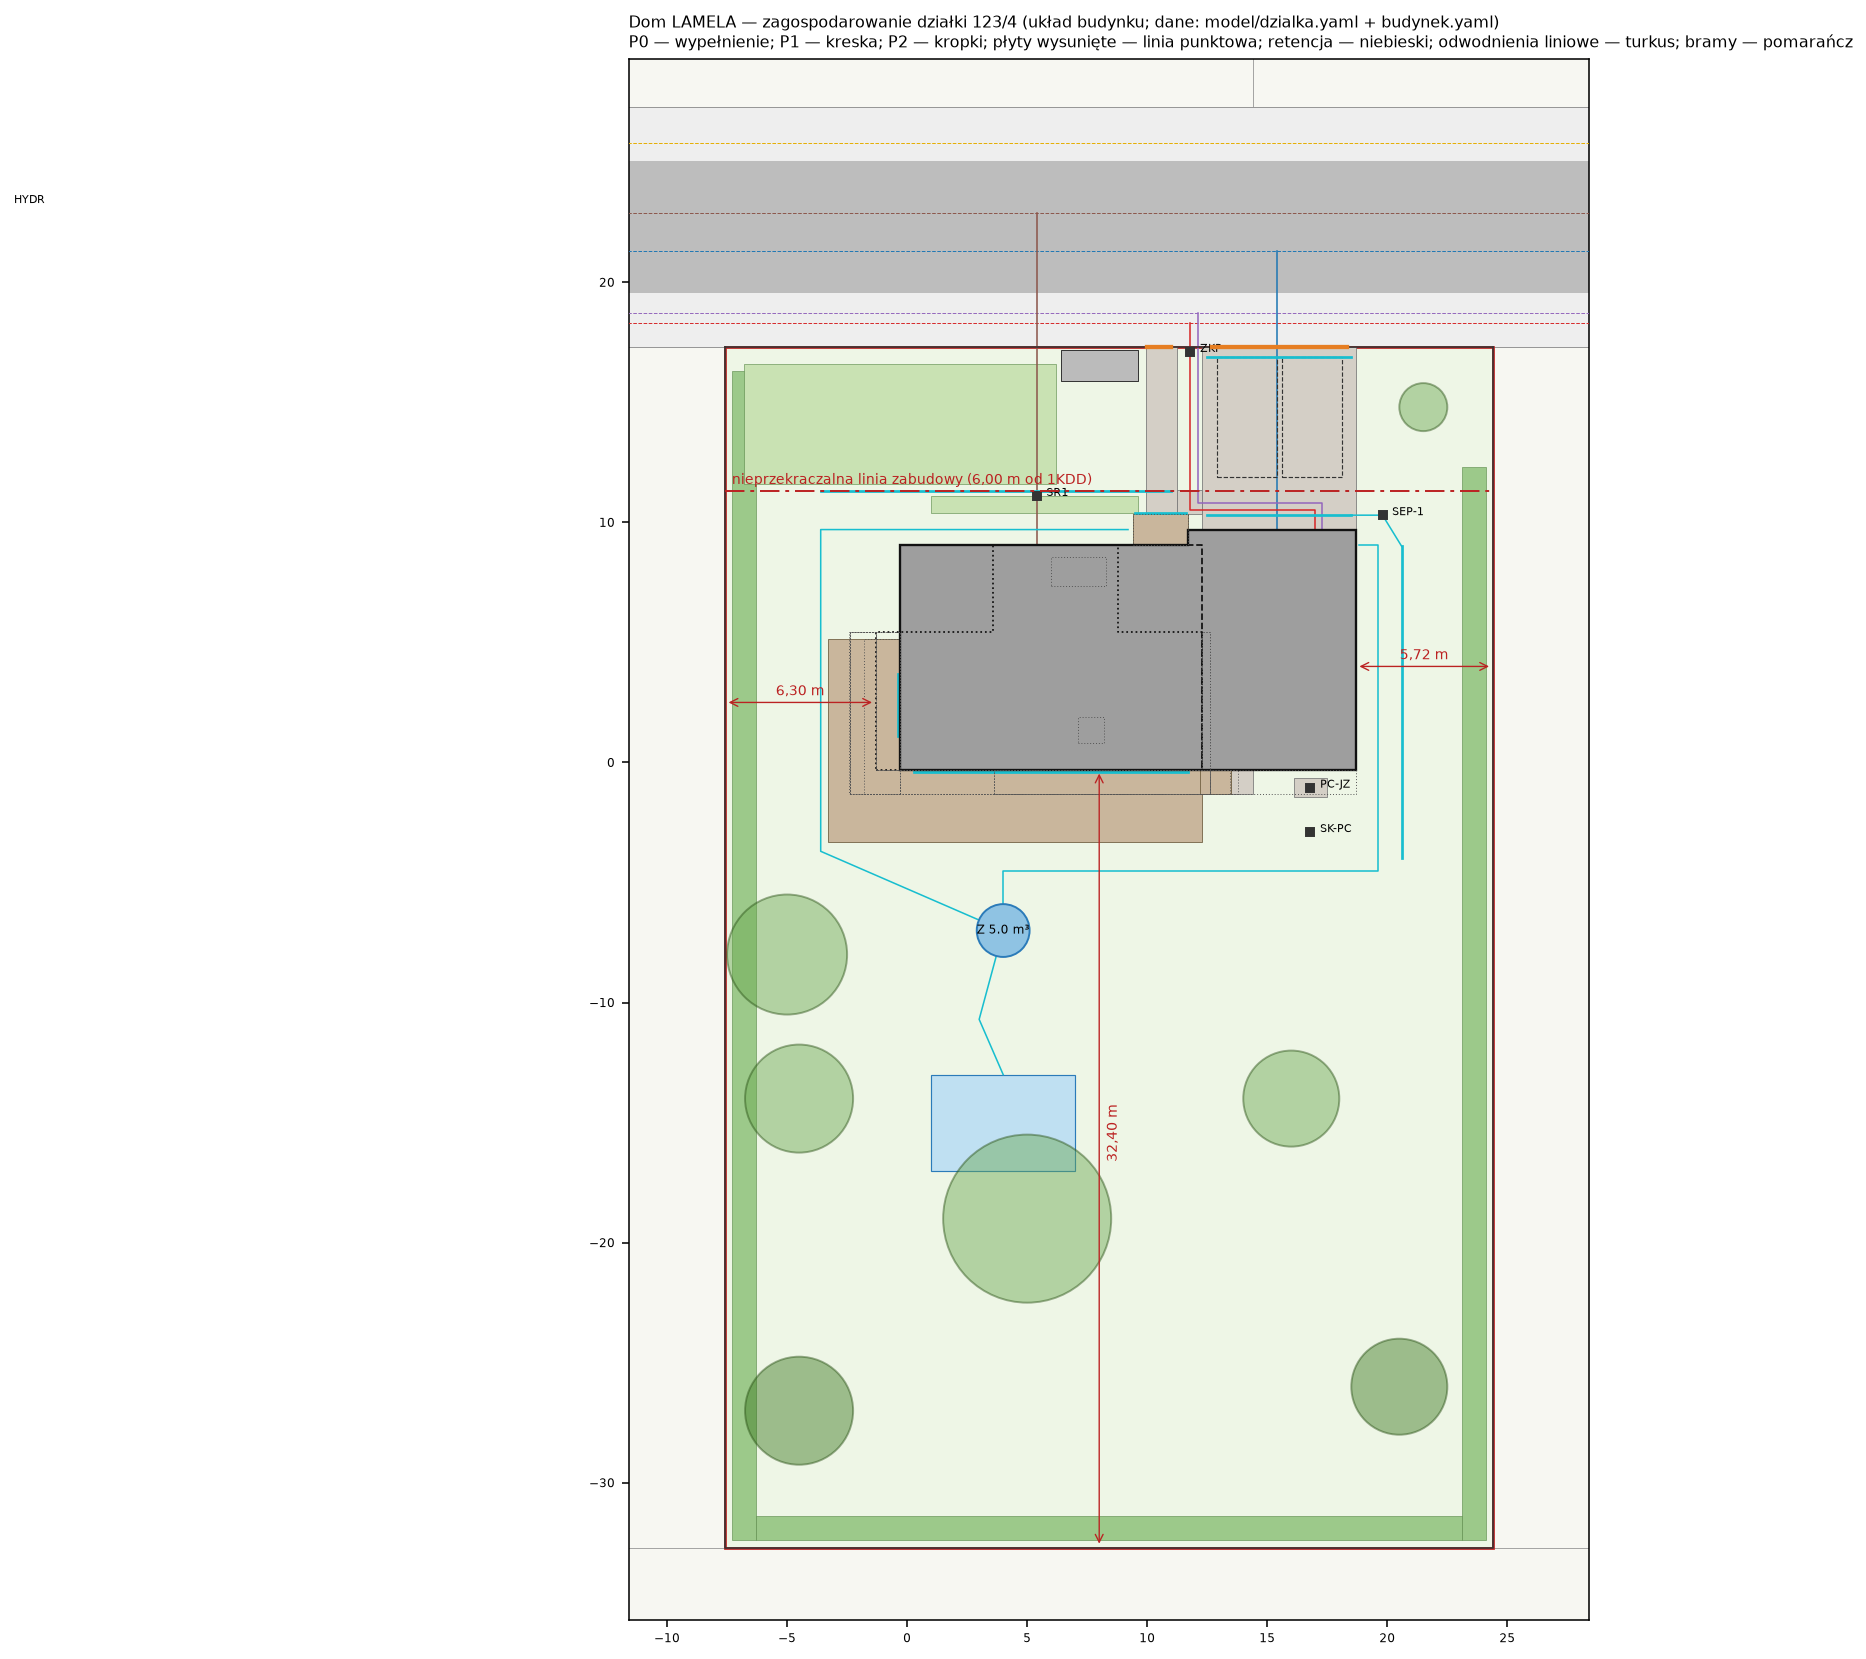
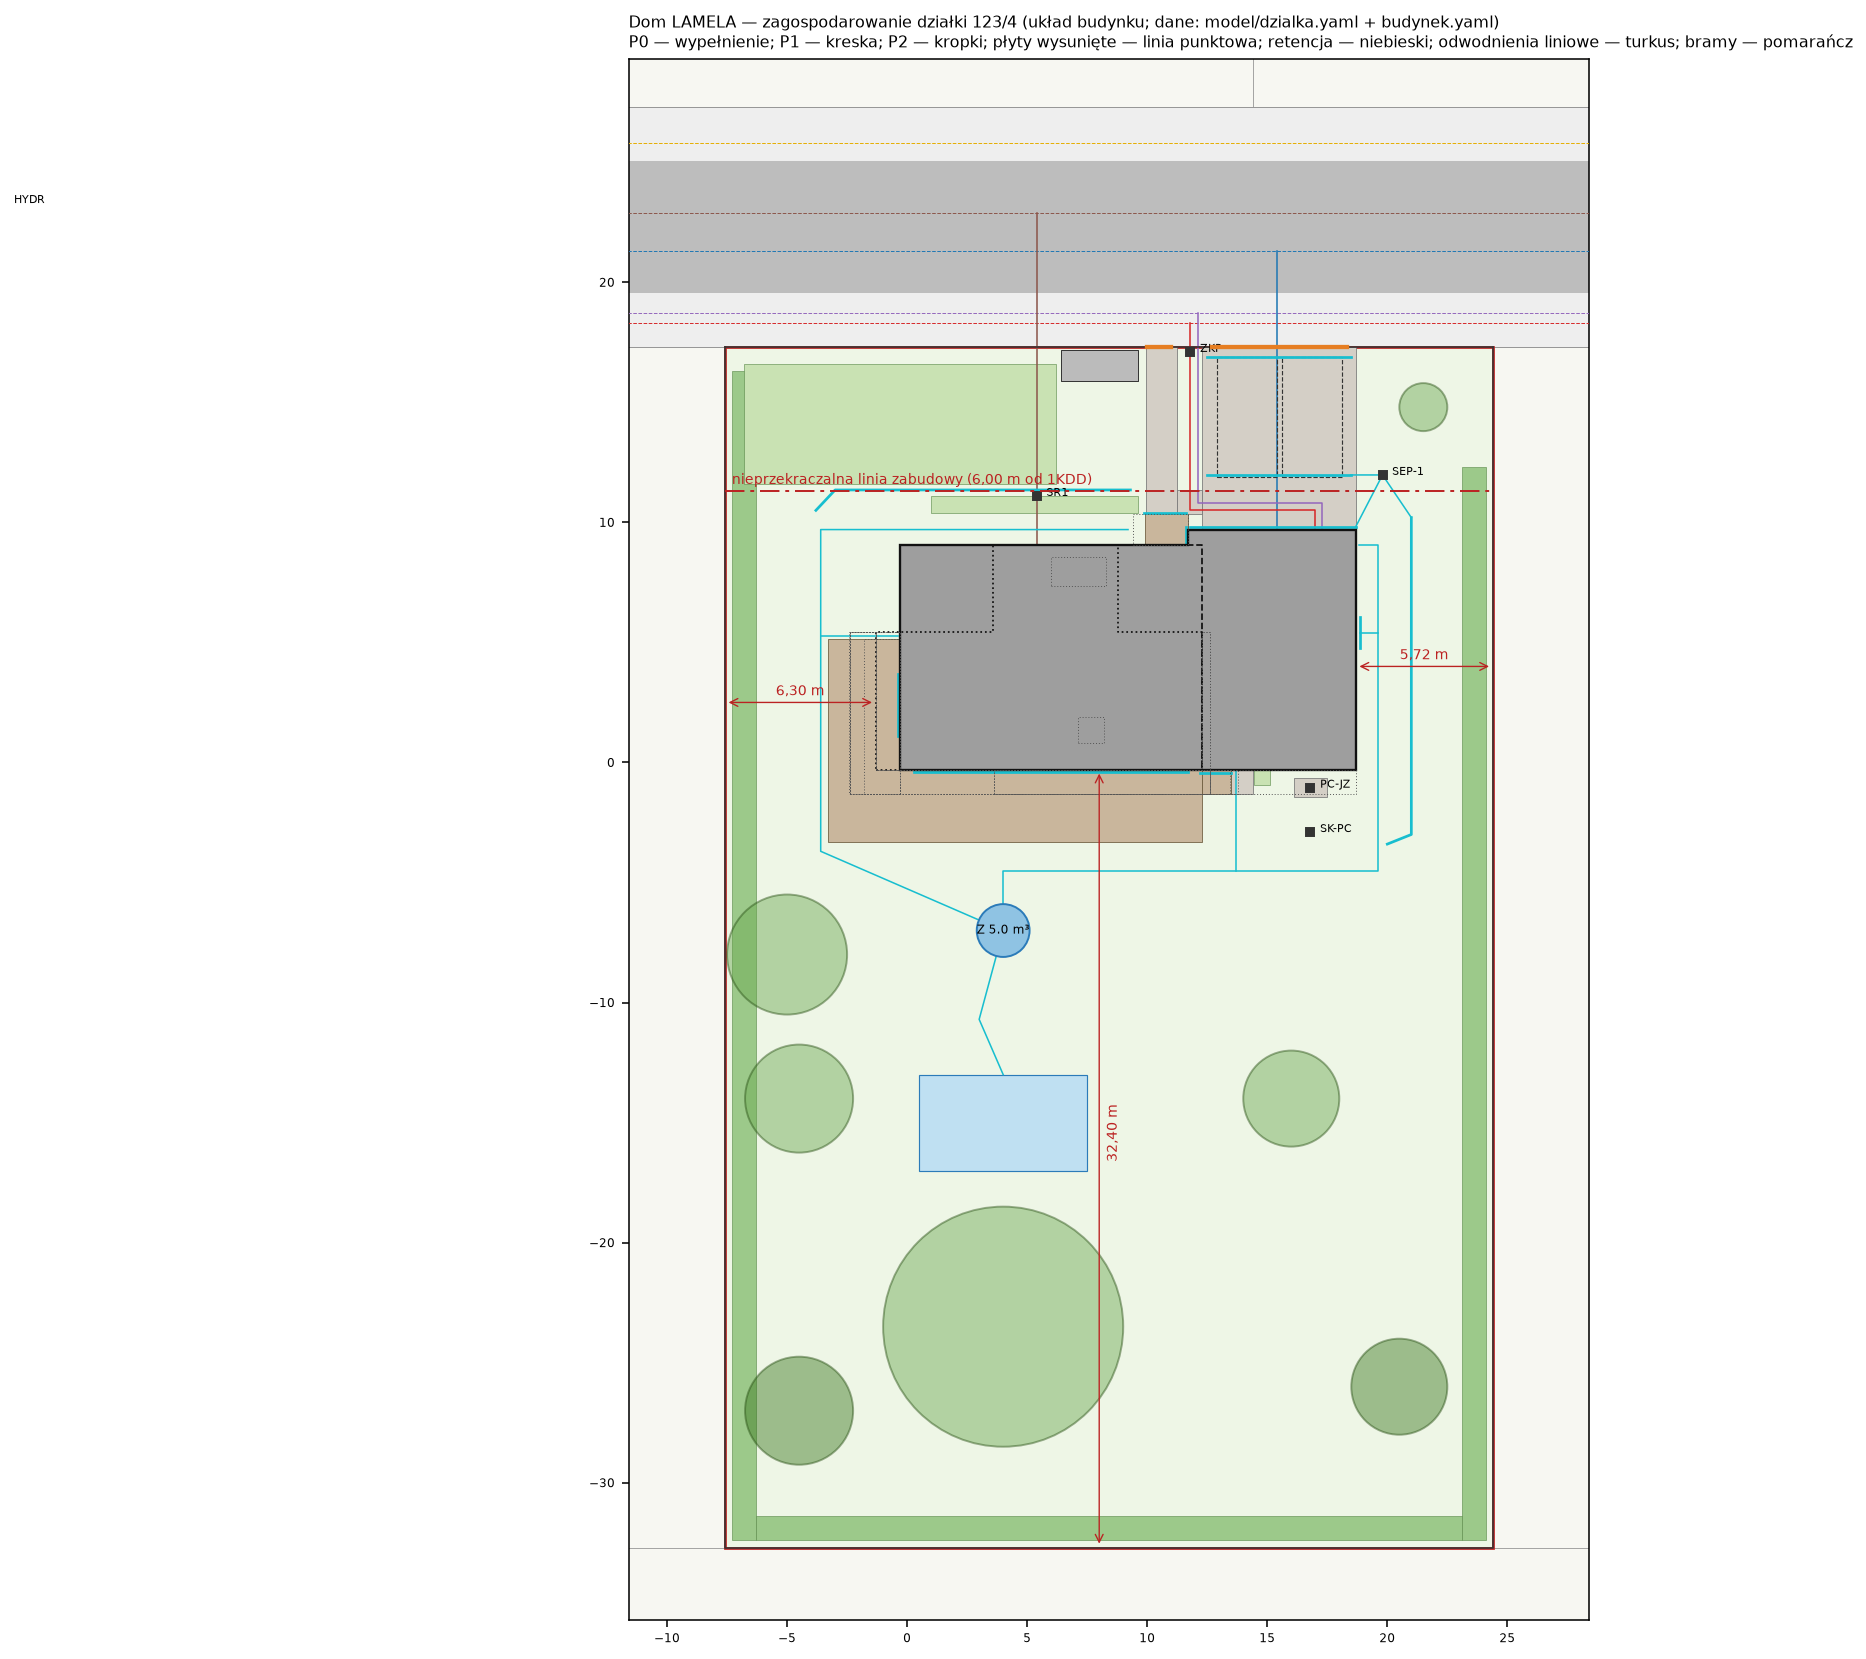
Prace robocze zespołów (autocommit)
Claude-Session: https://claude.ai/code/session_01FusXBHKDYGFEzgisqwGYyr

diff --git a/docs/20_koncepcja/koncepcja.md b/docs/20_koncepcja/koncepcja.md
@@ -447,10 +447,10 @@ Obszar oddziaływania mieści się w całości na działce (W-012).
 | garaż (osobno) / pom. techniczne (osobno) / klatki | 37,42 / 16,10 / 3,51 m² | — | — |
 | strefa dzienna salon + jadalnia + kuchnia | 54,44 m² | ≥ 50 m² | ✓ |
 | powierzchnia zabudowy (obrysy kondygnacji) | 187,50 m² (11,72 %); z płytami 218,08 m² | ≤ 480 m² (30 %) | ✓ |
-| powierzchnia biologicznie czynna | 1 270,15 m² (79,38 %); rezerwa 50 % dachu zielonego 29,53 m² | ≥ 800 m² (50 %) | ✓ |
+| powierzchnia biologicznie czynna | 1 270,23 m² (79,39 %); rezerwa 50 % dachu zielonego 29,53 m² | ≥ 800 m² (50 %) | ✓ |
 | intensywność zabudowy (Σ brutto kondygnacji / działka) | 0,248 | 0,05–0,80 | ✓ |
-| kubatura brutto | 1 354,5 m³ | — (> 1000 m³ → PWP, W-190) | — |
-| wysokość zabudowy (upzp art. 2 pkt 30 lit. a; `lamela.wskazniki`): najwyższy punkt 10,000 (czerpnia wentylacji (dachowa)) − średnia z min./maks. terenu na obwodzie (-0,360 / -0,175 → -0,267; niższa z rzędnych istn./proj. — D-15); informacyjnie od t_min: 10,36 m | **10,27 m** | ≤ 11,00 m (rezerwa → 10,70) | ✓ |
+| kubatura brutto | 1 354,4 m³ | — (> 1000 m³ → PWP, W-190) | — |
+| wysokość zabudowy (upzp art. 2 pkt 30 lit. a; `lamela.wskazniki`): najwyższy punkt 10,200 (wyrzutnia wentylacji (dachowa, szczyt urządzenia)) − średnia z min./maks. terenu na obwodzie (-0,360 / -0,172 → -0,266; niższa z rzędnych istn./proj. — D-15); informacyjnie od t_min: 10,56 m | **10,47 m** | ≤ 11,00 m (rezerwa → 10,70) | ✓ |
 | wysokość budynku wg WT §6 (`lamela.wskazniki`): do najwyższego punktu pokrycia z klinem 9,626 − teren przy najniższym wejściu O0-03 -0,348 | 9,97 m | grupa N ≤ 12 m | ✓ |
 | kondygnacje nadziemne | 3 | ≤ 3 | ✓ |
 | miejsca postojowe (garaż + podjazd) | 4 | ≥ 2 | ✓ |
@@ -478,8 +478,8 @@ Obszar oddziaływania mieści się w całości na działce (W-012).
 | płyta WYL1 | 14,70 | 16,20 | 33,50 | 9,40 |
 | płyta PL-D | 20,20 | 5,72 | 31,40 | 11,60 |
 | taras T1 | 4,30 | 12,10 | 29,40 | 6,17 |
-| taras T2 | 17,40 | 12,70 | 41,75 | 0,95 |
-| taras T3 | 19,80 | 10,90 | 31,40 | 11,60 |
+| taras T2 | 17,50 | 12,70 | 41,75 | 0,95 |
+| taras T3 | 19,90 | 10,90 | 31,40 | 11,60 |
 | jednostka zewn. PC | 23,80 | 7,00 | 31,05 | 11,75 |
 
 **Okna / podłoga w pomieszczeniach na pobyt ludzi** (w świetle ościeżnic ≈ (szer − 0,14)(wys − 0,14); WT §57, W-080 ≥ 1/8):

diff --git a/docs/20_koncepcja/final/bilans.md b/docs/20_koncepcja/final/bilans.md
@@ -7,10 +7,10 @@
 | garaż (osobno) / pom. techniczne (osobno) / klatki | 37,42 / 16,10 / 3,51 m² | — | — |
 | strefa dzienna salon + jadalnia + kuchnia | 54,44 m² | ≥ 50 m² | ✓ |
 | powierzchnia zabudowy (obrysy kondygnacji) | 187,50 m² (11,72 %); z płytami 218,08 m² | ≤ 480 m² (30 %) | ✓ |
-| powierzchnia biologicznie czynna | 1 270,15 m² (79,38 %); rezerwa 50 % dachu zielonego 29,53 m² | ≥ 800 m² (50 %) | ✓ |
+| powierzchnia biologicznie czynna | 1 270,23 m² (79,39 %); rezerwa 50 % dachu zielonego 29,53 m² | ≥ 800 m² (50 %) | ✓ |
 | intensywność zabudowy (Σ brutto kondygnacji / działka) | 0,248 | 0,05–0,80 | ✓ |
-| kubatura brutto | 1 354,5 m³ | — (> 1000 m³ → PWP, W-190) | — |
-| wysokość zabudowy (upzp art. 2 pkt 30 lit. a; `lamela.wskazniki`): najwyższy punkt 10,000 (czerpnia wentylacji (dachowa)) − średnia z min./maks. terenu na obwodzie (-0,360 / -0,175 → -0,267; niższa z rzędnych istn./proj. — D-15); informacyjnie od t_min: 10,36 m | **10,27 m** | ≤ 11,00 m (rezerwa → 10,70) | ✓ |
+| kubatura brutto | 1 354,4 m³ | — (> 1000 m³ → PWP, W-190) | — |
+| wysokość zabudowy (upzp art. 2 pkt 30 lit. a; `lamela.wskazniki`): najwyższy punkt 10,200 (wyrzutnia wentylacji (dachowa, szczyt urządzenia)) − średnia z min./maks. terenu na obwodzie (-0,360 / -0,172 → -0,266; niższa z rzędnych istn./proj. — D-15); informacyjnie od t_min: 10,56 m | **10,47 m** | ≤ 11,00 m (rezerwa → 10,70) | ✓ |
 | wysokość budynku wg WT §6 (`lamela.wskazniki`): do najwyższego punktu pokrycia z klinem 9,626 − teren przy najniższym wejściu O0-03 -0,348 | 9,97 m | grupa N ≤ 12 m | ✓ |
 | kondygnacje nadziemne | 3 | ≤ 3 | ✓ |
 | miejsca postojowe (garaż + podjazd) | 4 | ≥ 2 | ✓ |
@@ -38,8 +38,8 @@
 | płyta WYL1 | 14,70 | 16,20 | 33,50 | 9,40 |
 | płyta PL-D | 20,20 | 5,72 | 31,40 | 11,60 |
 | taras T1 | 4,30 | 12,10 | 29,40 | 6,17 |
-| taras T2 | 17,40 | 12,70 | 41,75 | 0,95 |
-| taras T3 | 19,80 | 10,90 | 31,40 | 11,60 |
+| taras T2 | 17,50 | 12,70 | 41,75 | 0,95 |
+| taras T3 | 19,90 | 10,90 | 31,40 | 11,60 |
 | jednostka zewn. PC | 23,80 | 7,00 | 31,05 | 11,75 |
 
 **Okna / podłoga w pomieszczeniach na pobyt ludzi** (w świetle ościeżnic ≈ (szer − 0,14)(wys − 0,14); WT §57, W-080 ≥ 1/8):
